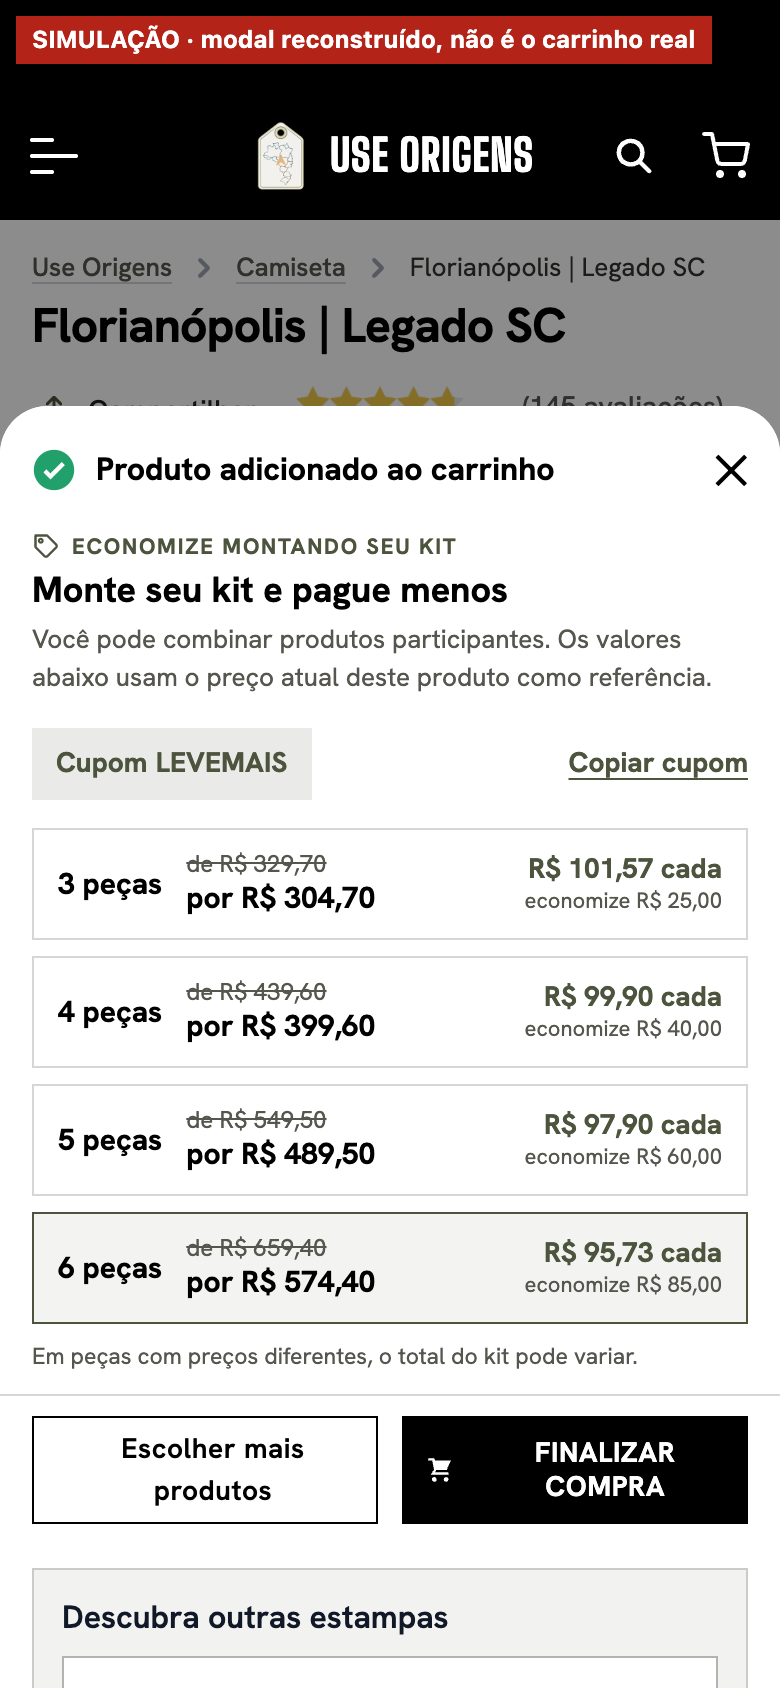
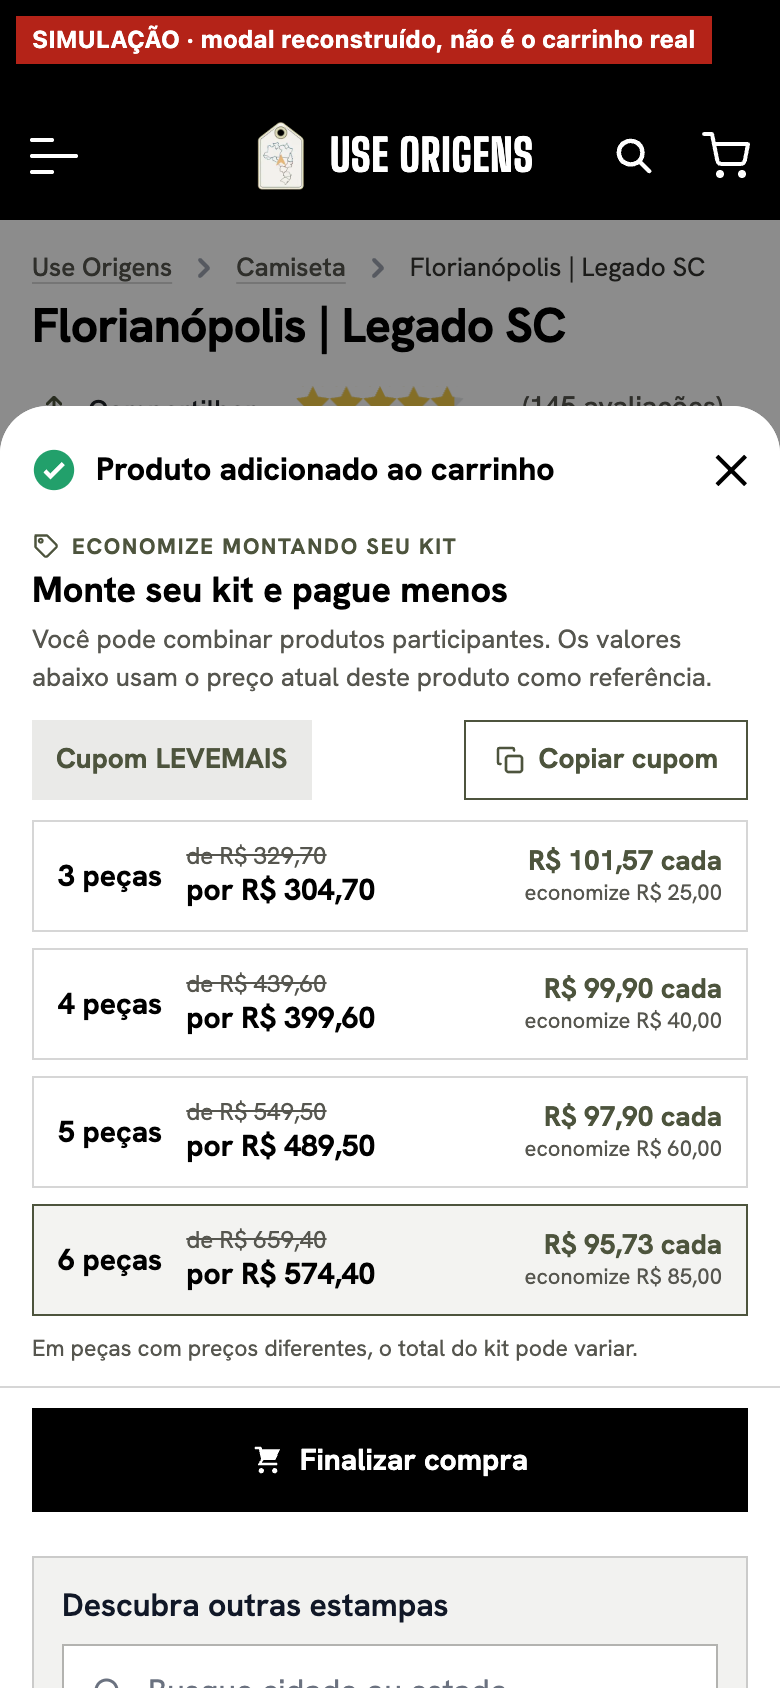
fix(worker): kit com um botão só ("Finalizar compra") e "Copiar cupom" como botão
Pedido do dono depois de ver ao vivo:
- "Continuar comprando" fica escondido enquanto há kit (a busca logo abaixo faz
  esse papel; o × e o clique fora continuam fechando o modal); volta ao desmontar;
- "Finalizar compra" na largura toda, sem caixa alta, com o ícone colado ao texto;
- "Copiar cupom" vira um botão de verdade (borda, ícone, "Copiado").

diff --git a/src/loader/post-add-kit.js b/src/loader/post-add-kit.js
@@ -5,9 +5,10 @@
 //   Preço:    o da peça que ACABOU de ser adicionada, lido no próprio formulário de compra enviado (form-product-<id>: o da página, o do "compre junto" ou o do
 //             quick add), no envio. Sem preço legível (ou envio de mais de 30 s atrás), as faixas mostram só o desconto ("R$ 25 OFF no total"), sem contas.
 //             As contas são as da INK aplicadas a esse preço: `value` = R$ fora do total; `percentage` = % fora do total. Quem aplica é o carrinho da INK.
-//   Modal:    o bloco entra ANTES dos botões nativos; "Ver carrinho" vira "Finalizar compra" e "Continuar comprando" vira "Escolher mais produtos", lado a lado
-//             (os mesmos botões da INK, só o texto do rótulo muda; ao desmontar, o texto volta). No celular os botões ficam presos ao pé da folha enquanto se
-//             rola, para "Finalizar compra" nunca sair da tela. A busca e "As mais vendidas" continuam abaixo.
+//   Modal:    o bloco entra ANTES dos botões nativos; "Ver carrinho" vira "Finalizar compra" (o mesmo botão da INK, só o texto do rótulo muda) e ocupa a
+//             largura toda: "Continuar comprando" fica escondido enquanto há kit (decisão do dono: a busca logo abaixo já leva a outras estampas, e o × e o
+//             clique fora continuam fechando o modal). Ao desmontar, o texto e o botão voltam. No celular o botão fica preso ao pé da folha enquanto se rola,
+//             para "Finalizar compra" nunca sair da tela. A busca e "As mais vendidas" continuam abaixo.
 //   Copiar:   SÓ copia o código (Clipboard API e, sem ela, execCommand; sem nenhum, o código fica selecionado). Nunca toca no campo de cupom da INK.
 // Todo texto vem do CMS e entra só por textContent.
 export const POST_ADD_KIT = String.raw`
@@ -22,7 +23,6 @@ export const POST_ADD_KIT = String.raw`
   const KIT_LIMITS = { eyebrow: 40, title: 60, lead: 160 };
   const KIT_MONEY = /^R\$\s?(\d{1,3}(?:\.\d{3})*|\d{1,6}),(\d{2})$/;
   const KIT_LABEL_CHECKOUT = 'Finalizar compra';
-  const KIT_LABEL_MORE = 'Escolher mais produtos';
   const KIT_NOTE = 'Em peças com preços diferentes, o total do kit pode variar.';
 
   function kitText(value, max) {
@@ -175,6 +175,18 @@ export const POST_ADD_KIT = String.raw`
     return svg;
   }
 
+  // Dois retângulos sobrepostos (copiar).
+  function kitCopyIcon() {
+    const ns = 'http://www.w3.org/2000/svg';
+    const svg = document.createElementNS(ns, 'svg');
+    svg.setAttribute('viewBox', '0 0 24 24'); svg.setAttribute('aria-hidden', 'true'); svg.setAttribute('fill', 'none'); svg.setAttribute('stroke', 'currentColor');
+    svg.setAttribute('stroke-width', '2'); svg.setAttribute('stroke-linecap', 'round'); svg.setAttribute('stroke-linejoin', 'round');
+    const front = document.createElementNS(ns, 'rect'); front.setAttribute('x', '9'); front.setAttribute('y', '9'); front.setAttribute('width', '12'); front.setAttribute('height', '12'); front.setAttribute('rx', '2');
+    const back = document.createElementNS(ns, 'path'); back.setAttribute('d', 'M5 15H4a1 1 0 0 1-1-1V4a1 1 0 0 1 1-1h10a1 1 0 0 1 1 1v1');
+    svg.appendChild(front); svg.appendChild(back);
+    return svg;
+  }
+
   const KIT_PRIMARY = (STORE.theme && STORE.theme.primary) || '#4d543d';
   const KIT_CSS = [
     // Cores e raio do tema da compra (theme-cart) quando ele está no ar; sem ele, a cor da região e o raio dos botões da INK.
@@ -184,9 +196,12 @@ export const POST_ADD_KIT = String.raw`
     '[data-origens-kit] .o-kit-eyebrow svg{width:14px;height:14px;flex:none}',
     '[data-origens-kit] .o-kit-title{margin:0;font-size:20px;line-height:1.2;font-weight:700;letter-spacing:normal;text-transform:none;color:var(--k-ink)}',
     '[data-origens-kit] .o-kit-lead{margin:6px 0 0;font-size:13px;line-height:1.4;color:var(--k-mute)}',
-    '[data-origens-kit] .o-kit-code{display:flex;align-items:center;justify-content:space-between;gap:8px;margin:12px 0 0}',
-    '[data-origens-kit] .o-kit-chip{display:inline-flex;align-items:center;gap:.3em;min-height:36px;padding:6px 12px;border-radius:var(--k-radius);background:color-mix(in srgb,var(--k-accent) 12%,var(--k-surface));color:var(--k-accent);font-size:14px;font-weight:700;line-height:1.2}',
-    '[data-origens-kit] .o-kit-copy{display:inline-flex;align-items:center;min-height:44px;margin:0 -4px 0 0;padding:0 4px;border:0;background:transparent;color:var(--k-accent);font-size:14px;font-weight:700;line-height:1.2;text-decoration:underline;text-underline-offset:3px;cursor:pointer}',
+    '[data-origens-kit] .o-kit-code{display:flex;flex-wrap:wrap;align-items:center;justify-content:space-between;gap:8px;margin:12px 0 0}',
+    '[data-origens-kit] .o-kit-chip{display:inline-flex;align-items:center;gap:.3em;min-height:40px;padding:6px 12px;border-radius:var(--k-radius);background:color-mix(in srgb,var(--k-accent) 12%,var(--k-surface));color:var(--k-accent);font-size:14px;font-weight:700;line-height:1.2}',
+    // "Copiar cupom" é um botão de verdade (borda, ícone), não um texto: a mesma altura do selo do cupom ao lado.
+    '[data-origens-kit] .o-kit-copy{display:inline-flex;align-items:center;justify-content:center;gap:6px;flex:none;min-height:40px;margin:0;padding:0 14px;border:1.5px solid var(--k-accent);border-radius:var(--k-radius);background:var(--k-surface);color:var(--k-accent);font-size:14px;font-weight:700;line-height:1.2;letter-spacing:normal;text-transform:none;text-decoration:none;cursor:pointer;transition:background-color .15s,color .15s}',
+    '[data-origens-kit] .o-kit-copy svg{width:16px;height:16px;flex:none}',
+    '[data-origens-kit] .o-kit-copy:hover,[data-origens-kit] .o-kit-copy[data-copied]{background:var(--k-accent);color:var(--o-on-selected,#fff)}',
     '[data-origens-kit] .o-kit-copy:focus-visible{outline:2px solid var(--k-accent);outline-offset:2px}',
     '[data-origens-kit] .o-kit-tiers{display:grid;gap:8px;margin:10px 0 0;padding:0;list-style:none}',
     '[data-origens-kit] .o-kit-tier{display:grid;grid-template-columns:auto minmax(0,1fr) auto;align-items:center;column-gap:12px;min-height:56px;margin:0;padding:8px 12px;border:1px solid var(--k-line);border-radius:var(--k-radius);background:var(--k-surface)}',
@@ -201,13 +216,17 @@ export const POST_ADD_KIT = String.raw`
     '[data-origens-kit] .o-kit-off{grid-column:2 / 4;justify-self:end;font-size:15px;font-weight:700;color:var(--k-accent)}',
     '[data-origens-kit] .o-kit-note{margin:8px 0 0;font-size:11.5px;line-height:1.4;color:var(--k-mute)}',
     '[data-origens-kit] .o-kit-sr{position:absolute;width:1px;height:1px;margin:-1px;padding:0;overflow:hidden;clip:rect(0 0 0 0);white-space:nowrap;border:0}',
-    // Os dois botões nativos lado a lado: "Escolher mais produtos" (o de continuar) à esquerda, "Finalizar compra" à direita.
-    '#modal-wrapper [data-origens-kit-footer]{display:grid!important;grid-template-columns:1fr 1fr;gap:8px;align-items:stretch}',
-    // !important: o tema da compra (theme-cart) dá largura total e 24 px de lado aos dois; lado a lado, o texto quebra em duas linhas antes de cortar.
-    '#modal-wrapper [data-origens-kit-footer] > *{width:auto!important;min-width:0;margin:0!important;padding-left:10px!important;padding-right:10px!important;font-size:14px!important;letter-spacing:.02em!important;white-space:normal;text-align:center;justify-content:center}',
-    '#modal-wrapper [data-origens-kit-footer] #continue-shopping-button{order:1}',
-    '#modal-wrapper [data-origens-kit-footer] .checkout-btn{order:2}',
-    // Celular (folha inferior que rola): os botões presos ao pé da folha enquanto o kit passa por baixo.
+    // Um botão só, na largura toda: "Finalizar compra". O "Continuar comprando" nativo fica escondido enquanto há kit (a busca logo abaixo faz esse papel).
+    '#modal-wrapper [data-origens-kit-footer]{display:grid!important;grid-template-columns:1fr;gap:8px;align-items:stretch}',
+    // !important: o tema da compra (theme-cart) põe caixa alta e espaçamento no botão; aqui a letra é a do resto do bloco, e o ícone do carrinho fica
+    // colado ao texto, os dois centralizados juntos.
+    '#modal-wrapper [data-origens-kit-footer] > *{display:flex!important;align-items:center!important;justify-content:center!important;gap:8px!important;width:auto!important;min-width:0;min-height:52px!important;margin:0!important;padding:6px 12px!important;font-size:15px!important;line-height:1.2!important;letter-spacing:normal!important;text-transform:none!important;white-space:normal;text-align:center}',
+    '#modal-wrapper [data-origens-kit-footer] > * > span{padding:0!important;margin:0!important}',
+    '#modal-wrapper [data-origens-kit-footer] > * > :is(svg,i,img){flex:none;width:16px;height:16px;margin:0!important;font-size:16px;line-height:1}',
+    '#modal-wrapper [data-origens-kit-footer] .checkout-btn{font-weight:700!important}',
+    // Depois da regra geral acima (ordem e especificidade dizem o mesmo).
+    '#modal-wrapper [data-origens-kit-footer] #continue-shopping-button{display:none!important}',
+    // Celular (folha inferior que rola): o botão preso ao pé da folha enquanto o kit passa por baixo.
     '@media (max-width:767px){#modal-wrapper [data-origens-kit-footer]{position:sticky;bottom:0;z-index:2;margin:0 -16px!important;padding:10px 16px calc(10px + env(safe-area-inset-bottom,0px));background:var(--o-surface,#fff);box-shadow:0 -1px 0 var(--o-line-soft,rgba(17,24,39,.12))}[data-origens-kit]{margin:14px 0 12px}[data-origens-kit] .o-kit-title{font-size:18px}}',
     '@media (max-width:359px){[data-origens-kit] .o-kit-tier{column-gap:8px;padding:8px 10px}[data-origens-kit] .o-kit-each small{display:none}}',
     '@media (max-height:700px){[data-origens-kit] .o-kit-lead{display:none}}'
@@ -249,13 +268,16 @@ export const POST_ADD_KIT = String.raw`
       const chip = kitEl('span', { class: 'o-kit-chip' }, 'Cupom');
       const codeText = kitEl('span', { 'data-origens-kit-code': '' }, kit.code);
       chip.appendChild(codeText);
-      const copy = kitEl('button', { type: 'button', class: 'o-kit-copy', 'aria-label': 'Copiar o cupom ' + kit.code }, 'Copiar cupom');
+      const copy = kitEl('button', { type: 'button', class: 'o-kit-copy', 'aria-label': 'Copiar o cupom ' + kit.code });
+      copy.appendChild(kitCopyIcon());
+      const copyLabel = kitEl('span', null, 'Copiar cupom');
+      copy.appendChild(copyLabel);
       let reset = null;
       copy.addEventListener('click', async () => {
         const ok = await kitCopy(kit.code, root);
         if (ok) {
-          copy.textContent = 'Copiado'; status.textContent = 'Cupom ' + kit.code + ' copiado. Cole no carrinho.';
-          clearTimeout(reset); reset = setTimeout(() => { copy.textContent = 'Copiar cupom'; status.textContent = ''; }, 2000);
+          copyLabel.textContent = 'Copiado'; copy.setAttribute('data-copied', ''); status.textContent = 'Cupom ' + kit.code + ' copiado. Cole no carrinho.';
+          clearTimeout(reset); reset = setTimeout(() => { copyLabel.textContent = 'Copiar cupom'; copy.removeAttribute('data-copied'); status.textContent = ''; }, 2000);
           kitTrack('kit_coupon_copy', kit);
         } else {
           // Sem área de transferência: o código fica selecionado para copiar à mão.
@@ -358,12 +380,9 @@ export const POST_ADD_KIT = String.raw`
         footer.insertAdjacentElement('beforebegin', root);
         footer.setAttribute('data-origens-kit-footer', '');
         const checkout = footer.querySelector('.checkout-btn');
-        const more = footer.querySelector('#continue-shopping-button');
         kitRelabel(checkout, KIT_LABEL_CHECKOUT);
-        kitRelabel(more, KIT_LABEL_MORE);
-        // Só medimos: o clique segue para a INK (abrir o carrinho, fechar o modal) exatamente como antes.
+        // Só medimos: o clique segue para a INK (abrir o carrinho) exatamente como antes.
         if (checkout) checkout.addEventListener('click', () => kitTrack('kit_checkout_click', data.kit), { signal: this.clicks.signal });
-        if (more) more.addEventListener('click', () => kitTrack('kit_more_click', data.kit), { signal: this.clicks.signal });
         this.shown = { at: Date.now(), kit: data.kit };
         kitTrack('kit_view', data.kit);
       });

diff --git a/test/post-add-kit.dom.test.js b/test/post-add-kit.dom.test.js
@@ -63,7 +63,7 @@ const kit = (t) => t.doc.querySelector('[data-origens-kit]');
 const rows = (t) => [...t.doc.querySelectorAll('.o-kit-tier')].map((li) => [...li.querySelectorAll('[aria-hidden="true"], .o-kit-qty, .o-kit-off')].filter((n) => n.parentElement === li).map((n) => n.textContent.replace(/\s+/g, ' ').trim()).join(' | '));
 const labels = (t) => [...t.doc.querySelectorAll('.add-product-modal__modal-content__footer span')].map((s) => s.textContent);
 
-test('post-add-kit: the block goes BEFORE the native buttons, with the price of the piece just added; the native buttons only change their label', async () => {
+test('post-add-kit: the block goes BEFORE the native buttons, with the price of the piece just added; "Ver carrinho" only changes its label and "Continuar comprando" is hidden while the kit is there', async () => {
   const t = setup();
   await tick();
   add(t);
@@ -86,8 +86,10 @@ test('post-add-kit: the block goes BEFORE the native buttons, with the price of 
   assert.equal(nbsp(t.doc.querySelector('.o-kit-tier .o-kit-sr').textContent), '3 peças: de R$ 329,70 por R$ 304,70, R$ 101,57 cada, economia de R$ 25,00.');
   assert.deepEqual([...t.doc.querySelectorAll('.o-kit-tier')].map((li) => li.hasAttribute('data-best')), [false, false, false, true]);
   assert.equal(block.querySelector('.o-kit-note').textContent, 'Em peças com preços diferentes, o total do kit pode variar.');
-  // Os mesmos botões da INK, com o ícone; só o texto do rótulo.
-  assert.deepEqual(labels(t), ['Finalizar compra', 'Escolher mais produtos']);
+  // O mesmo botão da INK, com o ícone; só o texto do rótulo. O "Continuar comprando" fica escondido (a busca abaixo faz esse papel), com o rótulo dele.
+  assert.deepEqual(labels(t), ['Finalizar compra', 'Continuar comprando']);
+  assert.equal(t.w.getComputedStyle(t.doc.getElementById('continue-shopping-button')).display, 'none');
+  assert.notEqual(t.w.getComputedStyle(t.doc.querySelector('.checkout-btn')).display, 'none');
   assert.ok(t.doc.querySelector('.checkout-btn svg'));
   assert.ok(t.doc.querySelector('.add-product-modal__modal-content__footer').hasAttribute('data-origens-kit-footer'));
   assert.ok(t.doc.getElementById('most_sold_frame'), '"As mais vendidas" continua');
@@ -110,6 +112,8 @@ test('post-add-kit: "Copiar cupom" only copies the code, says so, and measures w
   await tick(20);
   assert.deepEqual(t.copied, ['KITTESTE']);
   assert.equal(copy.textContent, 'Copiado');
+  assert.ok(copy.hasAttribute('data-copied'));
+  assert.ok(copy.querySelector('svg'), 'um botão com ícone, não um texto');
   assert.equal(t.doc.querySelector('[data-origens-kit] > [role="status"]').textContent, 'Cupom KITTESTE copiado. Cole no carrinho.');
   assert.equal(named(t, 'kit_coupon_copy').length, 1);
   let inkClicks = 0;
@@ -170,6 +174,10 @@ test('post-add-kit: closing the modal or leaving the page takes the block out an
   await tick();
   assert.equal(kit(t), null);
   assert.deepEqual(labels(t), ['Ver carrinho', 'Continuar comprando']);
+  t.doc.getElementById('modal-wrapper').style.display = '';
+  assert.notEqual(t.w.getComputedStyle(t.doc.getElementById('continue-shopping-button')).display, 'none', 'sem kit, o "Continuar comprando" volta');
+  t.doc.getElementById('modal-wrapper').style.display = 'none';
+  await tick();
   assert.equal(t.doc.querySelector('[data-origens-kit-footer]'), null);
   // Reaberto (nova adição, os mesmos nós): o bloco volta, com o preço desta adição.
   add(t, 'form-product-4400001');

diff --git a/docs/post-add-kit.md b/docs/post-add-kit.md
@@ -4,14 +4,15 @@ Feature opt-in `post-add-kit`. No modal **"Produto adicionado ao carrinho"** da 
 no CMS do storefront (Marketing › Monte seu kit; `docs/storefront/kit-pos-adicao.md` no useorigens):
 
 - chamada, título e texto de apoio (do CMS);
-- "Cupom LEVEMAIS" + **Copiar cupom** (ou "Desconto aplicado no carrinho", quando a INK aplica sozinha);
+- "Cupom LEVEMAIS" + o botão **Copiar cupom** (com borda e ícone; "Copiado" por 2 s), ou "Desconto aplicado no carrinho" quando a INK aplica sozinha;
 - uma linha por faixa (até 6): `3 peças | de R$ 329,70 por R$ 304,70 | R$ 101,57 cada, economize R$ 25,00`; a maior faixa em destaque;
 - o aviso "Em peças com preços diferentes, o total do kit pode variar.".
 
-Os botões nativos ficam **lado a lado** e só trocam o texto do rótulo: "Continuar comprando" → **"Escolher mais produtos"** (à esquerda),
-"Ver carrinho" → **"Finalizar compra"** (à direita). O clique continua sendo o da INK (fechar o modal / abrir o carrinho, onde o cliente cola o cupom).
-No celular os dois ficam presos ao pé da folha enquanto se rola o kit, para "Finalizar compra" não sair da tela. A busca (`post-add-discovery`) e
-"As mais vendidas" continuam abaixo. Ao fechar o modal ou sair da página, o bloco sai e os rótulos voltam.
+Abaixo do kit fica **um botão só**, na largura toda: "Ver carrinho" → **"Finalizar compra"** (o mesmo botão da INK, só o texto do rótulo muda, sem
+caixa alta e com o ícone colado ao texto; o clique abre o carrinho, onde o cliente cola o cupom). O "Continuar comprando" nativo fica **escondido**
+enquanto há kit (decisão do dono em 27/10/2026: a busca logo abaixo já leva a outras estampas; o × e o clique fora continuam fechando o modal). No
+celular o botão fica preso ao pé da folha enquanto se rola o kit. A busca (`post-add-discovery`) e "As mais vendidas" continuam abaixo. Ao fechar o
+modal ou sair da página, o bloco sai, o rótulo volta e o "Continuar comprando" reaparece.
 
 ## Dados
 
@@ -37,12 +38,12 @@ total = só os descontos. **Quem aplica é o carrinho da INK**: isto é só o qu
 
 ## Medição
 
-GA4 da própria INK, só com cookies aceitos (a regra de `tracking.js`): `kit_view`, `kit_coupon_copy`, `kit_checkout_click`, `kit_more_click`, com
+GA4 da própria INK, só com cookies aceitos (a regra de `tracking.js`): `kit_view`, `kit_coupon_copy`, `kit_checkout_click`, com
 `region`, `surface=ink`, `promo_id`, `tiers`. Nunca o código nem preços.
 
 ## Testes
 
-- `test/post-add-kit.dom.test.js` (7): posição, contas, rótulos (com o ícone), copiar, preço do formulário enviado (promoção do "compre junto"), sem
+- `test/post-add-kit.dom.test.js` (8): posição, contas, rótulo (com o ícone) e "Continuar comprando" escondido, copiar, preço do formulário enviado (promoção do "compre junto"), sem
   preço, promoção automática, fechar/sair devolve os rótulos, fail-closed (desligada não busca nada).
 - `test/kit-gateway.workerd.test.js` (5): contrato, cabeçalhos, origem fixa, 503 em tudo fora do contrato, só com `post-add-kit`, região da loja única.
 - `test/theme-release.test.js`: `evaluatePostAddKit`. `test/store-release.test.js`: um release de rotina nunca liga `post-add-kit`.
